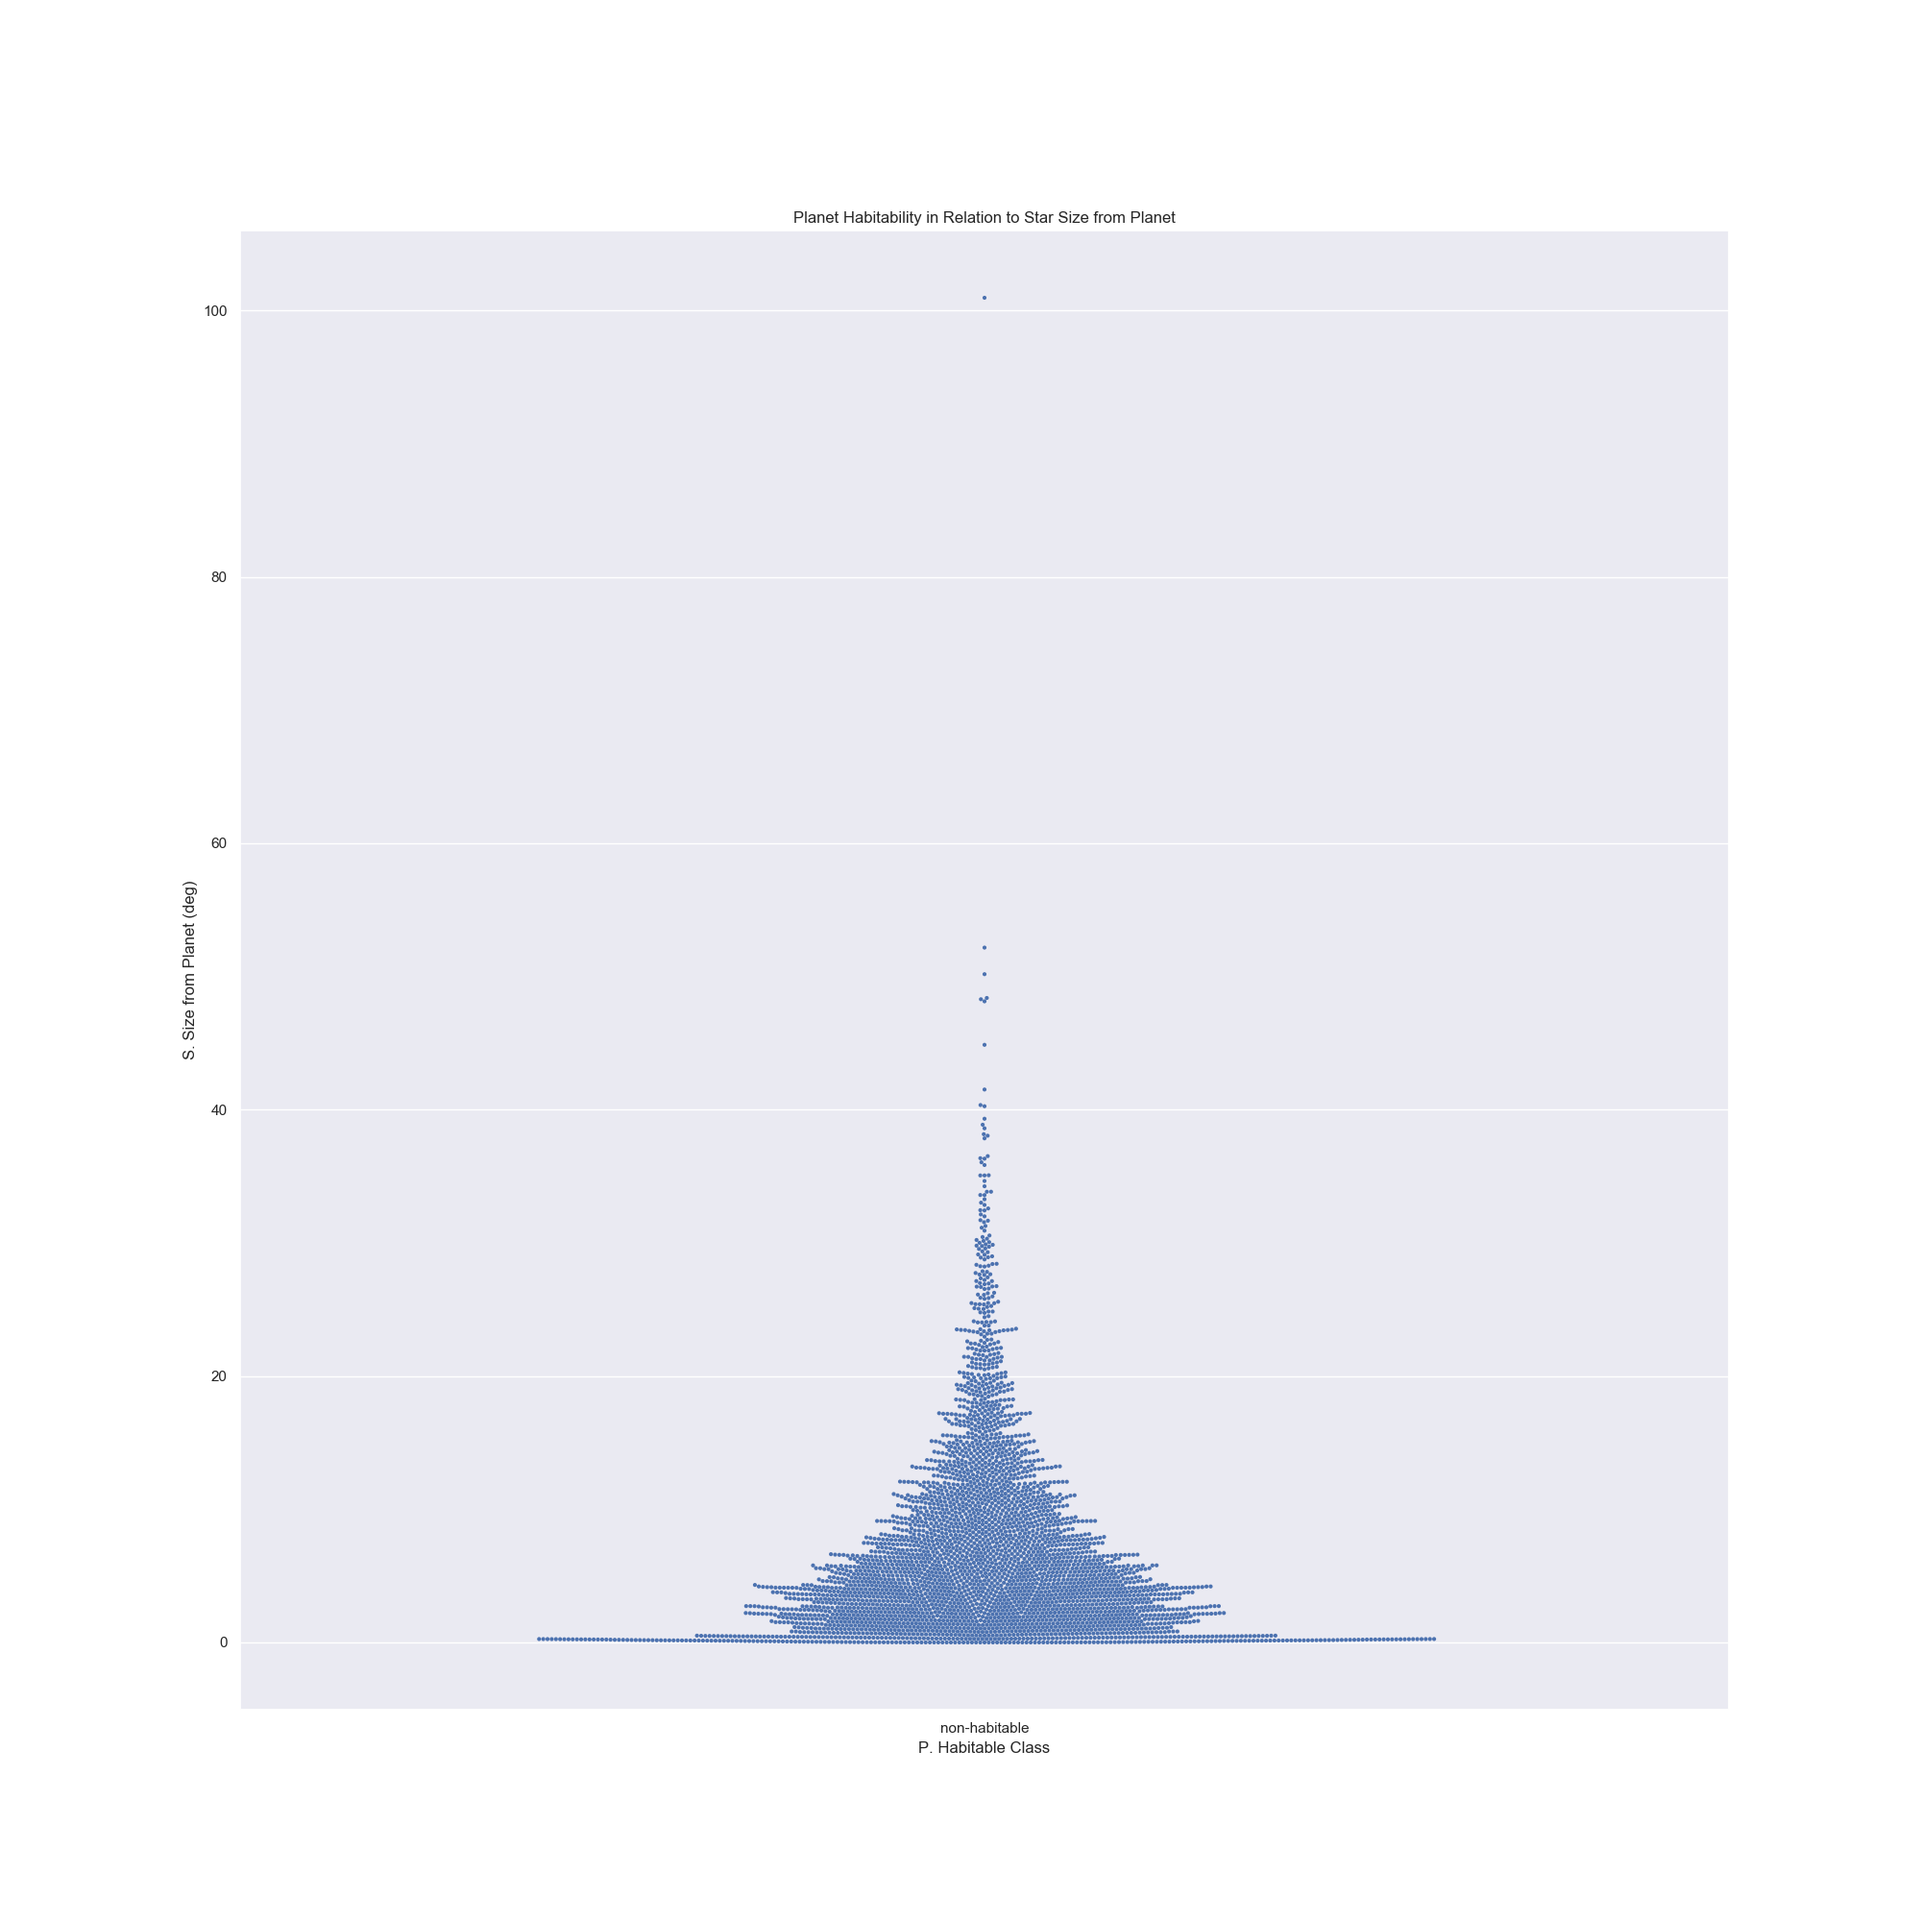
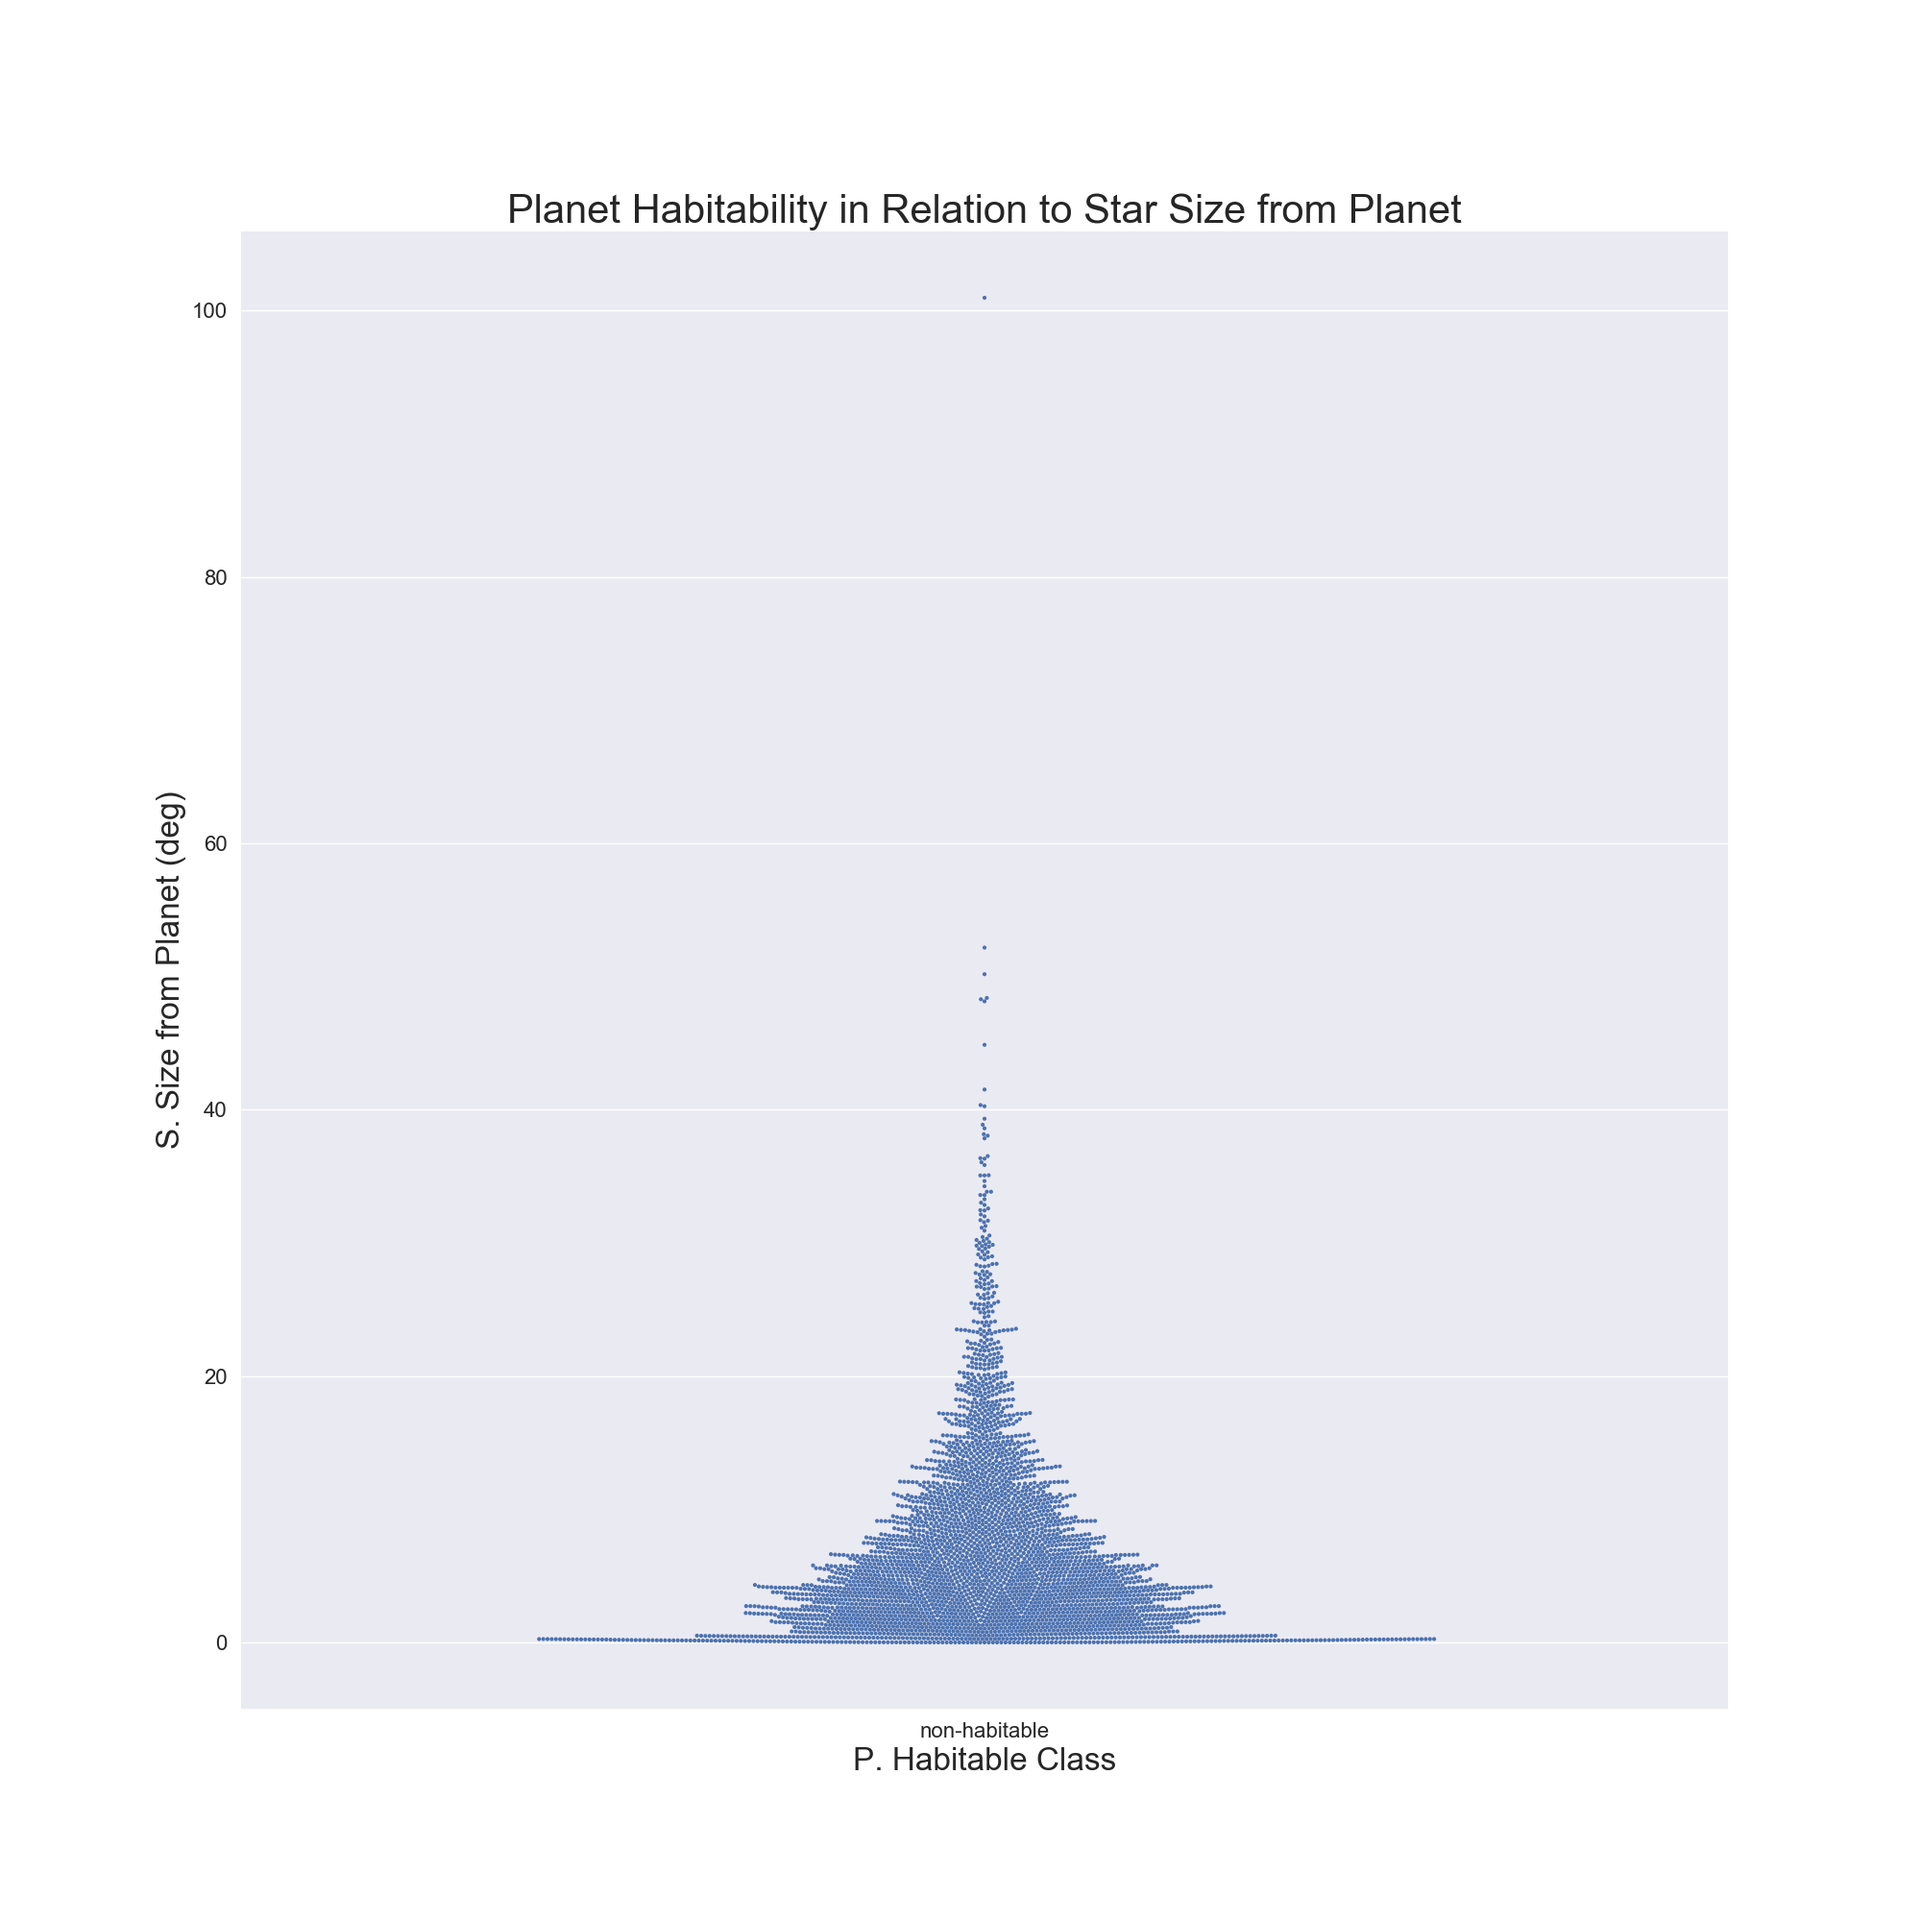
formatting edits

Changed region(s): [[0.279, 0.093, 0.775, 0.124], [0.062, 0.403, 0.093, 0.589], [0.465, 0.899, 0.589, 0.93]]

diff --git a/stats_functions.py b/stats_functions.py
@@ -17,22 +17,25 @@ planets = ['hypopsychroplanet', 'psychroplanet', 'mesoplanet',
 def s_type(data):
     """
     Plot the number of habitable exoplanets for differen star types from the
-    data. In order to avoid severely cluttered axes, only star types with one
-    or more habitable exoplanet are included.
+    data. In order to avoid severely cluttered axes, only broad star types are
+    included, the specific types are aggregated into general type categories
     """
     plt.cla()
-    # filter the data to remove uninhabitable planets, and then groupby
-    # parent star type, summing the counts of habitable exoplanets per type
-    d = data[data['P. Habitable'] != 0
-             ].groupby('S. Type')['P. Habitable'
-                                  ].sum().reset_index(name='count')
+    # group the data by star letter classification
+    d = data[['S. Type', 'P. Habitable']].dropna()
+    types = list()
+    for star_type in d['S. Type']:
+        types.append(star_type[0])
+    d['Type'] = types
+    d = d.groupby('Type')['P. Habitable'].sum().reset_index(name='count')
     # cast groupby object to a dataframe object
     pd.DataFrame(d)
     # create a bar chart to show the data
-    sns.catplot(x='S. Type', y='count', kind='bar', ci=None, color='b', data=d)
+    sns.catplot(x='Type', y='count', kind='bar', ci=None, color='b', data=d)
     # configure the plot to make it legible
-    plt.xticks(rotation=-80)
     plt.title('Nuber of Confirmed Habitable Exoplanets per Star Type')
+    plt.xlabel('Star Class')
+    plt.ylabel('Number of Confirmed Exoplanets')
     plt.savefig('s_type.png', bbox_inches='tight')
     plt.close()
 
@@ -63,7 +66,11 @@ def s_mass(h, nh):
                   size=3, data=nh)
     # configure the plot to make it legible
     plt.title('Distribution of Number of Non-Habitable' +
-              ' Planets per Class vs Parent Star Mass')
+              ' Planets per Class vs Parent Star Mass', fontsize=30)
+    plt.xlabel('P. Habitable Class', fontsize=24)
+    plt.ylabel('S. Mass (SU)', fontsize=24)
+    plt.xticks(fontsize=16)
+    plt.yticks(fontsize=16)
     plt.savefig('s_mass_nh.png', bbox_inches='tight')
     plt.close()
 
@@ -94,7 +101,11 @@ def s_radius(h, nh):
                   size=3, data=nh)
     # configure the plot to make it legible
     plt.title('Distribution of Number of Non-Habitable' +
-              ' Exoplanets per Class vs Parent Star Radius')
+              ' Exoplanets per Class vs Parent Star Radius', fontsize=30)
+    plt.xlabel('P. Habitable Class', fontsize=24)
+    plt.ylabel('S. Radius (SU)', fontsize=24)
+    plt.xticks(fontsize=16)
+    plt.yticks(fontsize=16)
     plt.savefig('s_radius_nh.png', bbox_inches='tight')
     plt.close()
 
@@ -123,7 +134,7 @@ def s_mass_vs_radius(data, h):
                 hue='P. Habitable Class', data=h)
     # configure the plot to make it legible
     plt.title('Star Mass vs Star Radius for Stars' +
-              'with Known Habitable Exoplanets')
+              ' with Known Habitable Exoplanets')
     plt.savefig('s_mass_vs_radius_h.png', bbox_inches='tight')
     plt.close()
 
@@ -150,7 +161,12 @@ def s_teff(h, nh):
     sns.swarmplot(x='P. Habitable Class', y='S. Teff (K)',
                   size=3, data=nh)
     plt.title('Distribution of Number of Non-Habitable' +
-              ' Exoplanets per Class vs Parent Star Effective Temperature')
+              ' Exoplanets per Class vs Parent Star Effective Temperature',
+              fontsize=30)
+    plt.xlabel('P. Habitable Class', fontsize=24)
+    plt.ylabel('S. Teff (K)', fontsize=24)
+    plt.xticks(fontsize=16)
+    plt.yticks(fontsize=16)
     plt.savefig('s_teff_nh.png', bbox_inches='tight')
     plt.close()
 
@@ -177,7 +193,11 @@ def s_luminosity(h, nh):
     sns.swarmplot(x='P. Habitable Class', y='S. Luminosity (SU)',
                   size=3, data=nh)
     plt.title('Distribution of Number of Non-Habitable' +
-              ' Planets per Class vs Parent Star Luminosity')
+              ' Planets per Class vs Parent Star Luminosity', fontsize=30)
+    plt.xlabel('P. Habitable Class', fontsize=24)
+    plt.ylabel('S. Luminosity (SU)', fontsize=24)
+    plt.xticks(fontsize=16)
+    plt.yticks(fontsize=16)
     plt.savefig('s_luminiosity_nh.png', bbox_inches='tight')
     plt.close()
 
@@ -205,7 +225,12 @@ def s_FeH(h, nh):
     sns.swarmplot(x='P. Habitable Class', y='S. [Fe/H]',
                   size=3, data=nh)
     plt.title('Distribution of Number of Non-Habitable' +
-              ' Planets per Class vs Parent Star Iron to Hydrogen Ratio')
+              ' Planets per Class vs Parent Star Iron to Hydrogen Ratio',
+              fontsize=30)
+    plt.xlabel('P. Habitable Class', fontsize=24)
+    plt.ylabel('S. [Fe/H]', fontsize=24)
+    plt.xticks(fontsize=16)
+    plt.yticks(fontsize=16)
     plt.savefig('s_FeH_nh.png', bbox_inches='tight')
     plt.close()
 
@@ -232,7 +257,11 @@ def s_age(h, nh):
     sns.swarmplot(x='P. Habitable Class', y='S. Age (Gyrs)',
                   size=3, data=nh)
     plt.title('Distribution of Number of Non-Habitable' +
-              ' Exoplanets per Class vs Age of Parent Star')
+              ' Exoplanets per Class vs Age of Parent Star', fontsize=20)
+    plt.xlabel('P. Habitable Class', fontsize=16)
+    plt.ylabel('S. Age (Gyrs)', fontsize=16)
+    plt.xticks(fontsize=12)
+    plt.yticks(fontsize=12)
     plt.savefig('s_age_nh.png', bbox_inches='tight')
     plt.close()
 
@@ -259,7 +288,11 @@ def s_ra(h, nh):
     sns.swarmplot(x='P. Habitable Class', y='S. RA (hrs)', data=nh,
                   size=3)
     plt.title('Distribution of Number of Non-Habitable Planets per Class' +
-              'vs Parent Star Right Ascension')
+              'vs Parent Star Right Ascension', fontsize=30)
+    plt.xlabel('P. Habitable Class', fontsize=24)
+    plt.ylabel('S. RA (hrs)', fontsize=24)
+    plt.xticks(fontsize=16)
+    plt.yticks(fontsize=16)
     plt.savefig('s_ra_nh.png', bbox_inches='tight')
     plt.close()
 
@@ -286,7 +319,11 @@ def s_dec(h, nh):
     sns.swarmplot(x='P. Habitable Class', y='S. DEC (deg)', data=nh,
                   size=3)
     plt.title('Distribution of Number of Non-Habitable Planets per Class' +
-              'vs Parent Star Declination')
+              'vs Parent Star Declination', fontsize=30)
+    plt.xlabel('P. Habitable Class', fontsize=24)
+    plt.ylabel('S. DEC (deg)', fontsize=24)
+    plt.xticks(fontsize=16)
+    plt.yticks(fontsize=16)
     plt.savefig('s_dec_nh.png', bbox_inches='tight')
     plt.close()
 
@@ -302,7 +339,7 @@ def s_mag_from_planet(h, nh):
                   order=planets, size=3)
     plt.xticks(rotation=-15)
     plt.title('Planet Habitability in Relation to Star Magnitude from Planet')
-    plt.savefig('s_mag_from_planet_h.png')
+    plt.savefig('s_mag_from_planet_h.png', bbox_inches='tight')
     plt.close()
 
     # plot with only non-habitable planets
@@ -310,8 +347,13 @@ def s_mag_from_planet(h, nh):
     plt.subplots(figsize=(10, 10))
     sns.swarmplot(x='P. Habitable Class', y='S. Mag from Planet', data=nh,
                   size=3)
-    plt.title('Planet Habitability in Relation to Star Magnitude from Planet')
-    plt.savefig('s_mag_from_planet_nh.png')
+    plt.title('Planet Habitability in Relation to Star Magnitude from Planet',
+              fontsize=24)
+    plt.xlabel('P. Habitable Class', fontsize=16)
+    plt.ylabel('S. Mag from Planet', fontsize=16)
+    plt.xticks(fontsize=12)
+    plt.yticks(fontsize=12)
+    plt.savefig('s_mag_from_planet_nh.png', bbox_inches='tight')
     plt.close()
 
 
@@ -327,7 +369,7 @@ def s_size_from_planet(h, nh):
                   data=h, order=planets, size=3)
     plt.xticks(rotation=-15)
     plt.title('Planet Habitability in Relation to Star Size from Planet')
-    plt.savefig('s_size_from_planet_h.png')
+    plt.savefig('s_size_from_planet_h.png', bbox_inches='tight')
     plt.close()
 
     # plot with only non-habitable planets
@@ -335,8 +377,13 @@ def s_size_from_planet(h, nh):
     plt.subplots(figsize=(20, 20))
     sns.swarmplot(x='P. Habitable Class', y='S. Size from Planet (deg)',
                   data=nh, size=3)
-    plt.title('Planet Habitability in Relation to Star Size from Planet')
-    plt.savefig('s_size_from_planet_nh.png')
+    plt.title('Planet Habitability in Relation to Star Size from Planet',
+              fontsize=30)
+    plt.xlabel('P. Habitable Class', fontsize=24)
+    plt.ylabel('S. Size from Planet (deg)', fontsize=24)
+    plt.xticks(fontsize=16)
+    plt.yticks(fontsize=16)
+    plt.savefig('s_size_from_planet_nh.png', bbox_inches='tight')
     plt.close()
 
 
